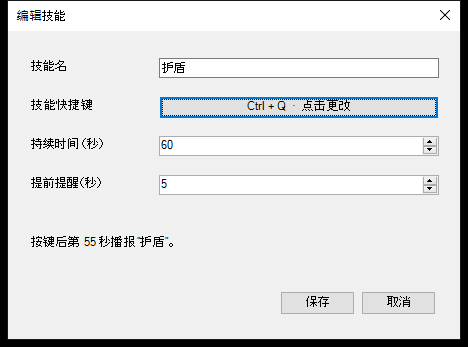
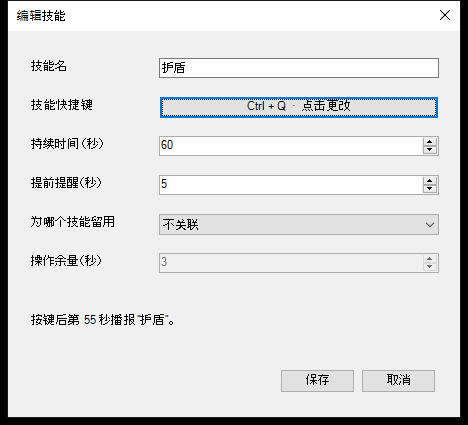
Show the linked-skill setup in the Windows guide

diff --git a/README.md b/README.md
@@ -36,6 +36,8 @@
 2. 在「为哪个技能留用」选择 B。「操作余量」默认 3 秒，可改为其他秒数，也可以填 0。
 3. 保存后，A 到提醒时间时，如果 B 距离转好超过 33 秒，就念 A。剩余时间等于或少于 33 秒时，列表显示「本轮已留用」，跳过这一次语音。下次按 A 才会开始新一轮。
 
+![编辑增益技能，将它留给爆发技能，30 秒 CD 加 3 秒操作余量](https://raw.githubusercontent.com/ComingPeopleHW/skill-voice-timer/main/docs/images/linked-skills.png)
+
 阈值随 A 的「持续时间 + 操作余量」变化。B 的剩余时间按它最近一次开始计时的按键和完整 CD 计算。B 仍在自己设置的提醒时间只念自己的技能名。例如 B 提前 10 秒播报，它会在第 110 秒出声，第 120 秒才算转好。
 
 每个技能可以选一个关联对象，一个预设可以设多组。刚开始监听或刚切换预设时，要先记录到一次 B 的按键，才能估算它的剩余 CD。在此之前，或 B 未勾选时，A 照常提醒。把 A 的「为哪个技能留用」改回「不关联」即可解除。
